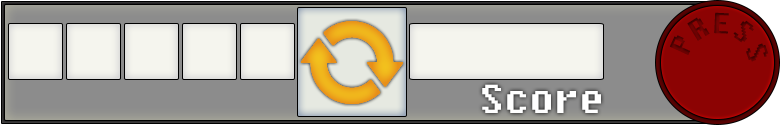
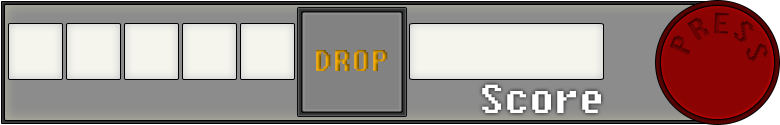
help + tuto + refactor hud and gameplay

Changed region(s): [[0.3692, 0.048, 0.5231, 0.936]]

diff --git a/Kaboom/Sources/MainGame.cs b/Kaboom/Sources/MainGame.cs
@@ -41,6 +41,7 @@ namespace Kaboom.Sources
         private bool isTuto_;
         private List<string> mapName_;
         private List<string> tutoName_;
+        private bool onHelp_;
 
 
         /// <summary>
@@ -59,9 +60,9 @@ namespace Kaboom.Sources
             lose_ = false;
             this.em_ = new Event();
             this.ladder_ = new Ladder(); // TODO : test
-            this.ladder_.AddEntry(15000, "King");
-            this.ladder_.AddEntry(10000, "Prince");
-            this.ladder_.AddEntry(5000, "Champion");
+            this.ladder_.AddEntry(10000, "King");
+            this.ladder_.AddEntry(6000, "Prince");
+            this.ladder_.AddEntry(3000, "Champion");
 
             #region mapNameInit
 
@@ -151,10 +152,14 @@ namespace Kaboom.Sources
             KaboomResources.Textures["goal"] = Content.Load<Texture2D>("GoalSheet");
             KaboomResources.Textures["checkpoint"] = Content.Load<Texture2D>("CheckPoint");
             KaboomResources.Textures["endScreen"] = Content.Load<Texture2D>("endScreen");
+            KaboomResources.Textures["endScreen2"] = Content.Load<Texture2D>("endScreen2");
+            KaboomResources.Textures["endScreen3"] = Content.Load<Texture2D>("endScreen3");
             KaboomResources.Textures["failScreen"] = Content.Load<Texture2D>("failScreen");
             KaboomResources.Textures["ladderScreen"] = Content.Load<Texture2D>("ladderScreen");
+            KaboomResources.Textures["help"] = Content.Load<Texture2D>("question-mark");
             if (isTuto_)
                 KaboomResources.Textures["Tuto"] = Content.Load<Texture2D>("TutoNormalBomb"); // level_
+            KaboomResources.Textures["helpScreen"] = Content.Load<Texture2D>("helpScreen");
 
             KaboomResources.Sprites["Bomb"] = new SpriteSheet(KaboomResources.Textures["BombSheet"], new[] { 8, 18 }, 2, 20);
             KaboomResources.Sprites["BombUltimate"] = new SpriteSheet(KaboomResources.Textures["BombSheetUltimate"], new[] { 8, 18 }, 2, 20);
@@ -248,11 +253,14 @@ namespace Kaboom.Sources
         }
 
 
-        private void UpdateTuto(Action ret)
+        private void UpdateSplash(Action ret)
         {
             if (ret.ActionType == Action.Type.Tap)
             {
-                isTuto_ = false;
+                if (isTuto_)
+                    isTuto_ = false; 
+                else
+                    onHelp_ = false;
             }
         }
 
@@ -290,9 +298,9 @@ namespace Kaboom.Sources
                 {
                     UpdateEnd(ret);
                 }
-                else if (isTuto_)
+                else if (isTuto_ || onHelp_)
                 {
-                    UpdateTuto(ret);
+                    UpdateSplash(ret);
                 }
                 else
                 {
@@ -321,13 +329,17 @@ namespace Kaboom.Sources
                                 {
                                     if (hudEvent == Hud.EHudAction.BombDetonation)
                                     {
-                                        
+
+                                        if (currentBomb_.Coord.X != -1)
+                                        {
+                                            this.map_.AddNewEntity(currentBomb_.Entity.ToBomb(),
+                                                                       currentBomb_.Coord);
+                                            currentBomb_.Coord.X = -1;
+                                            currentBomb_.Coord.Y = -1;
+                                        }
 
                                         map_.ActivateDetonators();
-                                        if (currentBomb_.Coord.X != -1)
-                                            map_.RemoveEntity(currentBomb_.Coord);
-                                        currentBomb_.Coord.X = -1;
-                                        currentBomb_.Coord.Y = -1;
+
                                         hud_.GameInfos.Round -= 1;
                                         if (hud_.GameInfos.Round <= 0)
                                             hud_.GameInfos.Round = 0;
@@ -336,14 +348,22 @@ namespace Kaboom.Sources
                                         this.hud_.UnselectAll();
                                         explosionMode_ = true;
                                     }
-                                    else if (hudEvent == Hud.EHudAction.BombRotation)
+                                    else if (hudEvent == Hud.EHudAction.BombLock)
                                     {
-                                        var pattern = hud_.SelectedBombType();
-                                        if (pattern != Pattern.Type.NoPattern && currentBomb_.Coord.X != -1)
+                                        if (currentBomb_.Coord.X != -1)
                                         {
-                                            currentBomb_.Entity.NextOrientation();
-                                            this.map_.AddNewEntity(currentBomb_.Entity, currentBomb_.Coord);
+                                            var pattern = hud_.SelectedBombType();
+
+                                            this.map_.AddNewEntity(currentBomb_.Entity.ToBomb(),
+                                                                   currentBomb_.Coord);
+                                            hud_.RemoveBombOfType(pattern);
+                                            currentBomb_.Coord.X = -1;
+                                            currentBomb_.Coord.Y = -1;
                                         }
+                                    }
+                                    else if (hudEvent == Hud.EHudAction.Help)
+                                    {
+                                        onHelp_ = true;
                                     }
                                     else if (hudEvent == Hud.EHudAction.BombSelection)
                                     {
@@ -358,30 +378,29 @@ namespace Kaboom.Sources
                                     try
                                     {
                                         var pattern = hud_.SelectedBombType();
-                                        if (pattern != Pattern.Type.NoPattern)
+
+                                        if (this.map_.GetCoordByPos(ret.Pos) == currentBomb_.Coord)
                                         {
-                                            if (this.map_.GetCoordByPos(ret.Pos) == currentBomb_.Coord)
+                                            if (pattern != Pattern.Type.NoPattern && currentBomb_.Coord.X != -1)
                                             {
-                                                this.map_.AddNewEntity(currentBomb_.Entity.ToBomb(),
-                                                                       currentBomb_.Coord);
-                                                hud_.RemoveBombOfType(pattern);
-                                                //hud_.UnselectAll(); Dot not unselect bomb after a put
+                                                currentBomb_.Entity.NextOrientation();
+                                                this.map_.AddNewEntity(currentBomb_.Entity, currentBomb_.Coord);
+                                            }
+                                        }
+                                        else if (pattern != Pattern.Type.NoPattern)
+                                        {
+                                            if (currentBomb_.Coord.X != -1)
+                                                map_.RemoveEntity(currentBomb_.Coord);
+                                            currentBomb_.Coord = this.map_.GetCoordByPos(ret.Pos);
+                                            currentBomb_.Entity = new VirtualBomb(pattern,
+                                                                                  KaboomResources.Sprites[
+                                                                                      hud_.SelectedBombName()].Clone
+                                                                                      ());
+                                            if (
+                                                !(this.map_.AddNewEntity(currentBomb_.Entity, currentBomb_.Coord)))
+                                            {
                                                 currentBomb_.Coord.X = -1;
                                                 currentBomb_.Coord.Y = -1;
-                                            }
-                                            else
-                                            {
-                                                if (currentBomb_.Coord.X != -1)
-                                                    map_.RemoveEntity(currentBomb_.Coord);
-                                                currentBomb_.Coord = this.map_.GetCoordByPos(ret.Pos);
-                                                currentBomb_.Entity = new VirtualBomb(pattern,
-                                                                                      KaboomResources.Sprites[hud_.SelectedBombName()].Clone());
-                                                if (
-                                                    !(this.map_.AddNewEntity(currentBomb_.Entity, currentBomb_.Coord)))
-                                                {
-                                                    currentBomb_.Coord.X = -1;
-                                                    currentBomb_.Coord.Y = -1;
-                                                }
                                             }
                                         }
                                     }
@@ -424,13 +443,24 @@ namespace Kaboom.Sources
                                        KaboomResources.Textures["Tuto"].Bounds, Color.White);
                 this.spriteBatch_.End();
             }
+            else if (onHelp_)
+            {
+                this.spriteBatch_.Begin();
+                this.spriteBatch_.Draw(KaboomResources.Textures["helpScreen"],
+                                       new Rectangle((int)(this.graphics_.PreferredBackBufferWidth * 0.05),
+                                                     (int)(this.graphics_.PreferredBackBufferHeight * 0.05),
+                                                     (int)(this.graphics_.PreferredBackBufferWidth * 0.9),
+                                                     (int)(this.graphics_.PreferredBackBufferHeight * 0.9)),
+                                       KaboomResources.Textures["helpScreen"].Bounds, Color.White);
+                this.spriteBatch_.End();
+            }
 
             if (ended_)
             {
                 if (ladder_.IsDisplay)
                     hud_.DrawLadder(gameTime, ladder_.GetLadder());
                 else
-                    hud_.DrawEnd(gameTime, lose_);
+                    hud_.DrawEnd(gameTime, lose_, ladder_.GetIdxOf("Player"));
             }
         }
 
@@ -443,7 +473,7 @@ namespace Kaboom.Sources
         {
             score_.EndReached(hud_.RemainingTurns);
             if (ended_ == false)
-                this.ladder_.AddEntry(this.hud_.GameInfos.Score.Score, "Mon Score");
+                this.ladder_.AddEntry(this.hud_.GameInfos.Score.Score, "Player");
             // TODO : Manage end game here
             ended_ = true;
             //this.Exit();

diff --git a/Kaboom/Sources/Hud.cs b/Kaboom/Sources/Hud.cs
@@ -14,7 +14,8 @@ namespace Kaboom.Sources
             NoAction,
             BombDetonation,
             BombSelection,
-            BombRotation
+            BombLock,
+            Help
         }
 
         public enum EHudEndAction
@@ -232,6 +233,14 @@ namespace Kaboom.Sources
                                         this.width_, this.height_),
                           new Rectangle(0, 0, 780, 125), Color.White);
 
+            this.sb_.Draw(KaboomResources.Textures["help"],
+                                      new Rectangle((int)(this.Game.GraphicsDevice.Viewport.Width * 0.91),
+                                     (int) (this.Game.GraphicsDevice.Viewport.Height * 0.91),
+                                     (int) (this.Game.GraphicsDevice.Viewport.Width * 0.07),
+                                     (int) (this.Game.GraphicsDevice.Viewport.Height * 0.07)),
+                                      KaboomResources.Textures["help"].Bounds, Color.White);
+          
+
             var padding = 4;
 
             foreach (var bombInfo in BombSet)
@@ -312,7 +321,7 @@ namespace Kaboom.Sources
             this.sb_.End();
         }
 
-        public void DrawEnd(GameTime gametime, bool lose)
+        public void DrawEnd(GameTime gametime, bool lose, int pos)
         {
                 this.sb_.Begin();
 
@@ -325,10 +334,27 @@ namespace Kaboom.Sources
                 }
                 else
                 {
-                    this.sb_.Draw(KaboomResources.Textures["endScreen"],
+                    if (pos == 0)
+                    {
+                        this.sb_.Draw(KaboomResources.Textures["endScreen3"],
                                   new Rectangle((this.GraphicsDevice.Viewport.Width / 2) - (this.widthEnd_ / 2),
                                                 (this.GraphicsDevice.Viewport.Height / 2) - (this.heightEnd_ / 2),
                                                 this.widthEnd_, this.heightEnd_), Color.White);
+                    }
+                    else if (pos == 1)
+                    {
+                        this.sb_.Draw(KaboomResources.Textures["endScreen2"],
+                                  new Rectangle((this.GraphicsDevice.Viewport.Width / 2) - (this.widthEnd_ / 2),
+                                                (this.GraphicsDevice.Viewport.Height / 2) - (this.heightEnd_ / 2),
+                                                this.widthEnd_, this.heightEnd_), Color.White);
+                    }
+                    else
+                    {
+                        this.sb_.Draw(KaboomResources.Textures["endScreen"],
+                                  new Rectangle((this.GraphicsDevice.Viewport.Width / 2) - (this.widthEnd_ / 2),
+                                                (this.GraphicsDevice.Viewport.Height / 2) - (this.heightEnd_ / 2),
+                                                this.widthEnd_, this.heightEnd_), Color.White);
+                    } 
                     var scoreS = GameInfos.Score.Score.ToString(CultureInfo.InvariantCulture);
                     this.sb_.DrawString(KaboomResources.Fonts["end"],
                                         scoreS,
@@ -440,12 +466,19 @@ namespace Kaboom.Sources
                 }
             }
 
-            var rotation =
+            var help = new Rectangle((int)(this.Game.GraphicsDevice.Viewport.Width * 0.91),
+                                     (int) (this.Game.GraphicsDevice.Viewport.Height * 0.91),
+                                     (int) (this.Game.GraphicsDevice.Viewport.Width * 0.07),
+                                     (int) (this.Game.GraphicsDevice.Viewport.Height * 0.07));
+            if (help.Contains(new Point((int)pos.X, (int)pos.Y)))
+                return EHudAction.Help;
+
+            var locked =
                 new Rectangle(
                     ((this.Game.GraphicsDevice.Viewport.Width / 2) - (this.width_ / 2)) +
                     (int)((296.0 / 780.0) * this.width_), 0, (int)((109.0 / 780.0) * this.width_),
                     (int)((119.0 / 125.0) * this.height_));
-            return rotation.Contains(new Point((int)pos.X, (int)pos.Y)) ? EHudAction.BombRotation : EHudAction.NoAction;
+            return locked.Contains(new Point((int)pos.X, (int)pos.Y)) ? EHudAction.BombLock : EHudAction.NoAction;
         }
 
         /// <summary>

diff --git a/Kaboom/Sources/Ladder.cs b/Kaboom/Sources/Ladder.cs
@@ -78,6 +78,17 @@ namespace Kaboom.Sources
             Sort();
         }
 
+        public int GetIdxOf(string name)
+        {
+            var idx = 0;
+            foreach (var entry in ladder_)
+            {
+                if (entry.Name == name)
+                    return idx;
+                ++idx;
+            }
+            return 0;
+        }
 
     }
 }
